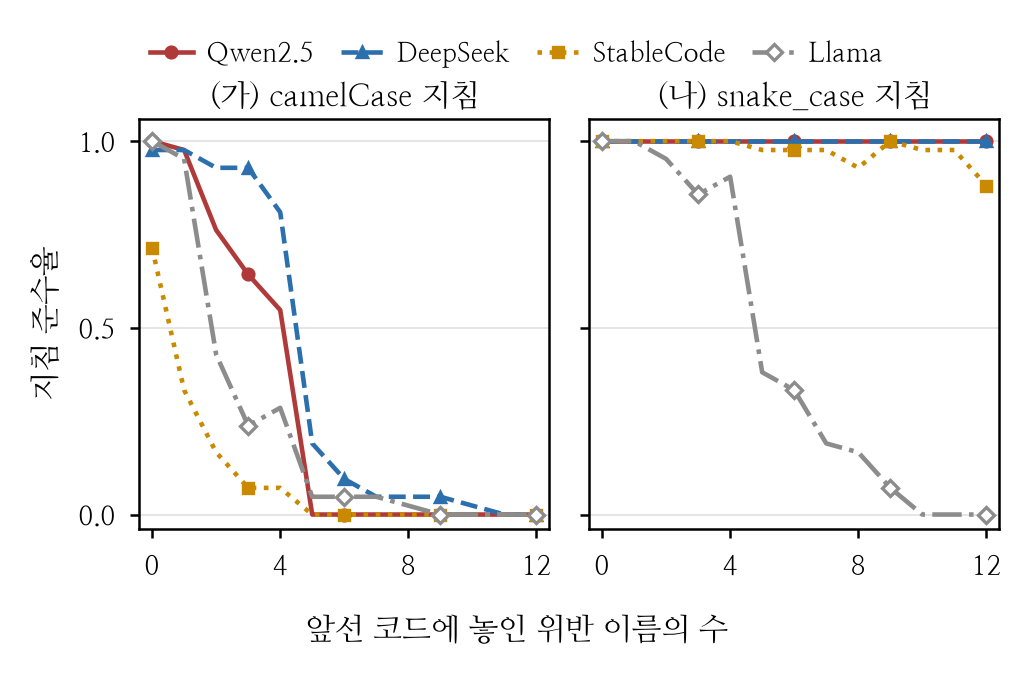
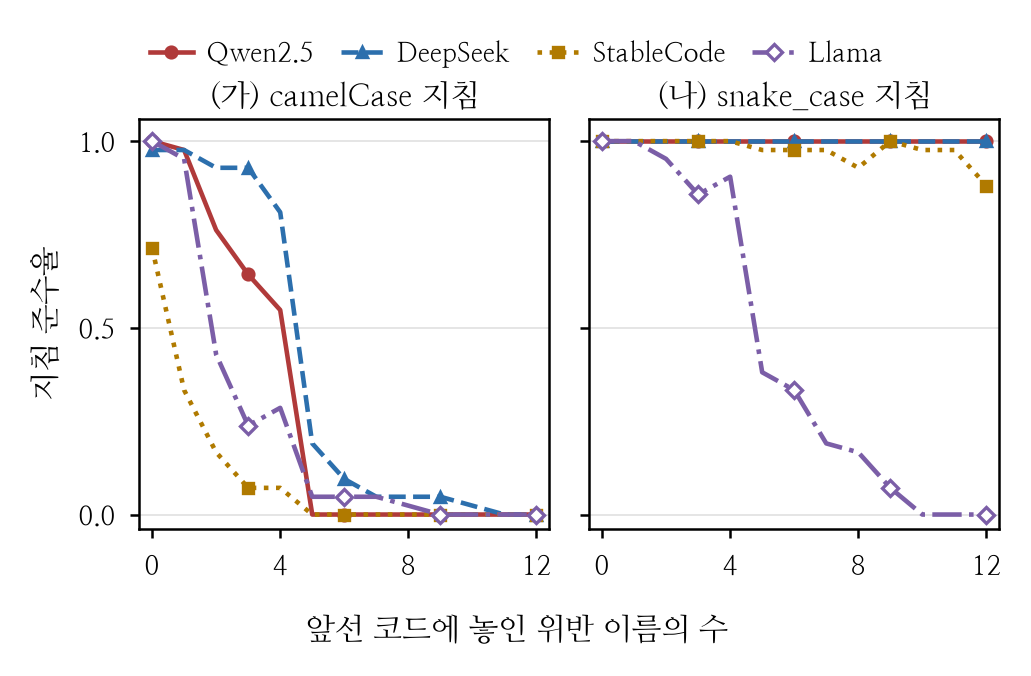
그림 1 팔레트를 검증기로 통과한 4색으로
Qwen #B03A3A · DeepSeek #2C6FAD · StableCode #B07A00 · Llama #7B5EA7

색각 이상 분리도, 명도대, 채도 하한, 배경 대비를 모두 통과한 조합이다(눈으로 고르지
않고 검증했다). 다른 그림의 빨강·회색은 모델이 아니라 개념 대비(지침/코드,
Value/Key)이므로 건드리지 않는다 — 색이 모델 정체성을 뜻하는 판은 그림 1뿐이다.

흑백으로 뽑으면 빨강·파랑·보라의 밝기가 0.13~0.15로 붙는다. 그래서 선 모양과 표식이
색과 무관하게 모델을 가르도록 두었다(색만으로 구분하지 않는다).

Claude-Session: https://claude.ai/code/session_01YabXMXZ1FHdG4oH1H9fXx5

diff --git a/scripts/paper_figures_ko.py b/scripts/paper_figures_ko.py
@@ -139,12 +139,15 @@ def fig_cliff(out: Path):
         by[(c["model"]["family"], c["instruction"]["target_notation"])][n_viol].append(
             1.0 if r["metrics"]["extra"]["first_compliant"] else 0.0)
 
-    # 코드 특화 세 종은 빨강·파랑·노랑, 범용은 회색. 흑백 인쇄를 대비해 선 모양도 가른다.
-    BLUE, AMBER = "#2C6FAD", "#C98A00"
+    # 이 판만 색이 **모델 정체성**을 뜻한다(다른 그림의 빨강·회색은 지침/코드, Value/Key라는
+    # 개념 대비다 — 그쪽은 건드리지 않는다). 네 색은 색각 이상 분리도·명도대·채도·배경 대비를
+    # 검증기로 통과시킨 조합이다. 다만 흑백으로 뽑으면 빨강·파랑·보라의 밝기가 0.13~0.15로
+    # 붙으므로, **선 모양과 표식이 색과 무관하게 모델을 가른다**(색만으로 구분하지 않는다).
+    BLUE, AMBER, PURPLE = "#2C6FAD", "#B07A00", "#7B5EA7"
     series = [("qwen", RED, "-", "o", 1.0),
               ("deepseek", BLUE, "--", "^", 1.0),
               ("stability", AMBER, ":", "s", 1.0),
-              ("llama", GRAY, "-.", "D", 0.0)]
+              ("llama", PURPLE, "-.", "D", 0.0)]
 
     fig, axes = plt.subplots(1, 2, figsize=(3.3, 1.95), sharey=True)
     for ax, (tgt, title) in zip(axes, (("camel", "(가) camelCase 지침"),
